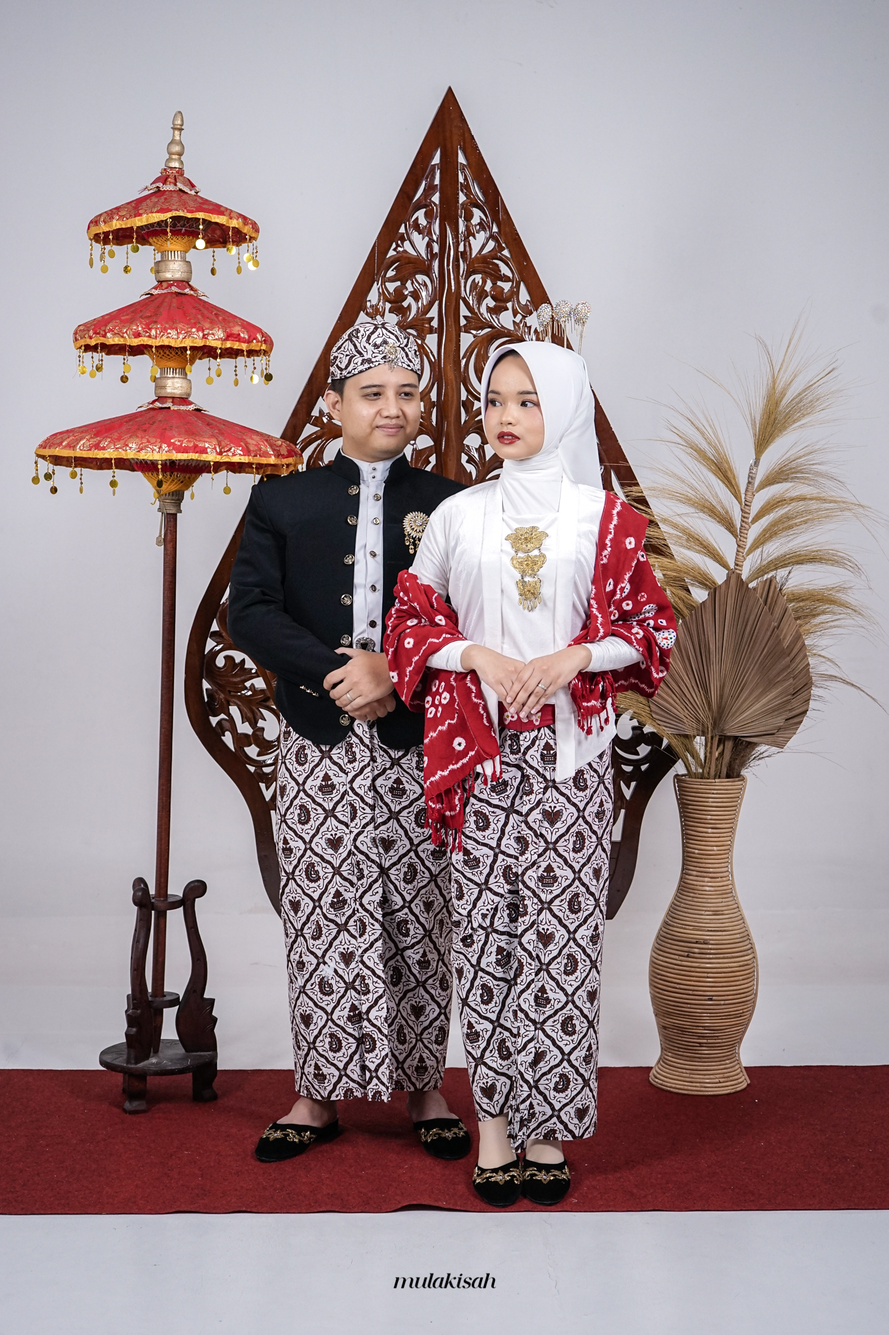
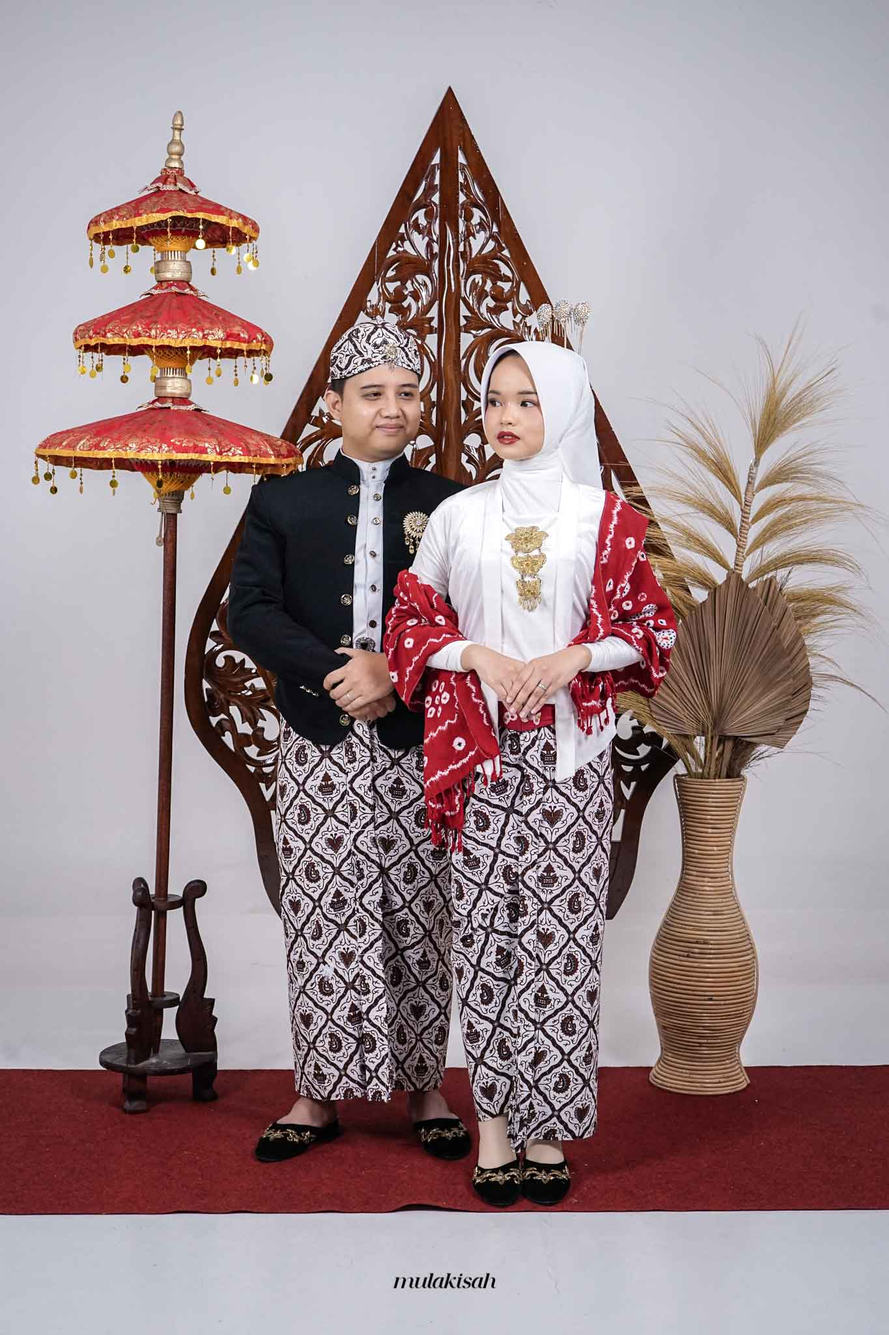
compress image dan ganti font jawaban

diff --git a/source/custom.js b/source/custom.js
@@ -101,9 +101,9 @@ $(document).ready(function() {
             html += `
             <div class="card mb-2">
                 <div class="card-body">
-                <b class="card-title">${row.nama}</b>
-                <span><em>`+timeAgo(row.waktu)+`<em></span>
-                <p class="card-text">${row.pesan}</p>
+                <b class="card-title">${row.nama}</b><br>
+                <span class="card-text">${row.pesan}</span><br>
+                <span style="font-size: 11px;"><em>`+timeAgo(row.waktu)+`<em></span>
                 </div>
             </div>
             `;
